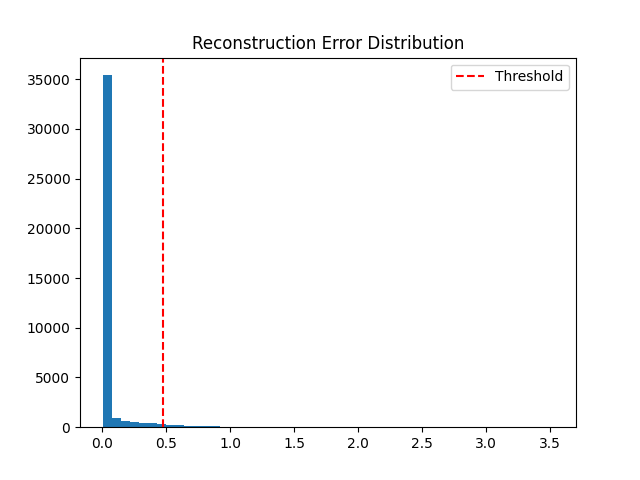
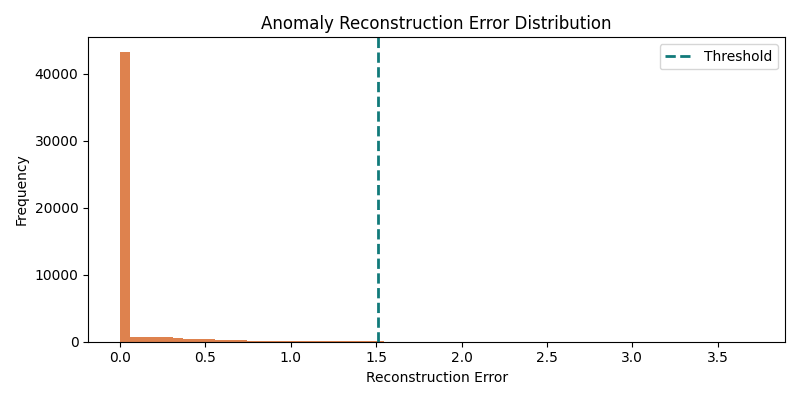
anomaly updated

diff --git a/src/models/anomaly_autoenc.py b/src/models/anomaly_autoenc.py
@@ -1,36 +1,35 @@
 from tensorflow.keras import Model
 from tensorflow.keras.layers import (
-    LSTM,
     Dense,
     Dropout,
     Input,
-    RepeatVector,
-    TimeDistributed,
+    Reshape,
 )
 
 
-def build_lstm_autoencoder(window_size, latent_dim=64, dropout_rate=0.2):
+def build_autoencoder(window_size, latent_dim=64, dropout_rate=0.2):
     """
-    Sequence-to-sequence LSTM autoencoder for mains anomaly detection.
+    Fully-connected (Dense) autoencoder for mains anomaly detection.
+    Much faster to train than the LSTM variant while retaining good
+    reconstruction-error-based anomaly separation.
     """
 
     inputs = Input(shape=(window_size, 1), name="mains_window")
 
-    x = LSTM(128, return_sequences=True, name="encoder_lstm_1")(inputs)
+    # ── Encoder ──
+    x = Reshape((window_size,), name="flatten_input")(inputs)
+    x = Dense(128, activation="relu", name="encoder_dense_1")(x)
     x = Dropout(dropout_rate, name="encoder_dropout_1")(x)
-    x = LSTM(latent_dim, return_sequences=False, name="encoder_lstm_2")(x)
+    x = Dense(latent_dim, activation="relu", name="encoder_dense_2")(x)
     x = Dropout(dropout_rate, name="encoder_dropout_2")(x)
 
-    x = RepeatVector(window_size, name="repeat_latent")(x)
-    x = LSTM(latent_dim, return_sequences=True, name="decoder_lstm_1")(x)
+    # ── Decoder ──
+    x = Dense(128, activation="relu", name="decoder_dense_1")(x)
     x = Dropout(dropout_rate, name="decoder_dropout_1")(x)
-    x = LSTM(128, return_sequences=True, name="decoder_lstm_2")(x)
+    x = Dense(window_size, activation="linear", name="decoder_dense_2")(x)
 
-    outputs = TimeDistributed(
-        Dense(1),
-        name="reconstructed_window",
-    )(x)
+    outputs = Reshape((window_size, 1), name="reconstructed_window")(x)
 
-    model = Model(inputs=inputs, outputs=outputs, name="anomaly_lstm_autoencoder")
+    model = Model(inputs=inputs, outputs=outputs, name="anomaly_autoencoder")
     model.compile(optimizer="adam", loss="mse")
     return model

diff --git a/src/training/train_anomaly.py b/src/training/train_anomaly.py
@@ -11,7 +11,7 @@ from tensorflow.keras.callbacks import EarlyStopping, ReduceLROnPlateau
 
 sys.path.append(os.path.abspath("src"))
 
-from models.anomaly_autoenc import build_lstm_autoencoder
+from models.anomaly_autoenc import build_autoencoder
 
 
 WINDOW_SIZE = 60
@@ -59,7 +59,7 @@ def save_training_plots(history, reconstruction_errors, threshold):
     plt.plot(history.history["val_loss"], label="Validation Loss", linewidth=2)
     plt.xlabel("Epoch")
     plt.ylabel("Reconstruction MSE")
-    plt.title("Anomaly LSTM Training Curve")
+    plt.title("Anomaly Autoencoder Training Curve")
     plt.legend()
     plt.tight_layout()
     plt.savefig("reports/anomaly_loss_curve.png")
@@ -102,7 +102,7 @@ def main():
     print("Train shape:", X_train.shape)
     print("Validation shape:", X_val.shape)
 
-    model = build_lstm_autoencoder(WINDOW_SIZE, latent_dim=64, dropout_rate=0.2)
+    model = build_autoencoder(WINDOW_SIZE, latent_dim=64, dropout_rate=0.2)
     model.summary()
 
     callbacks = [
@@ -141,7 +141,7 @@ def main():
     print("Saved anomaly training plots")
 
     metrics = {
-        "model": "lstm_anomaly_autoencoder",
+        "model": "dense_anomaly_autoencoder",
         "window_size": WINDOW_SIZE,
         "threshold": threshold,
         "mean_error": float(reconstruction_errors.mean()),

diff --git a/frontend/app.py b/frontend/app.py
@@ -597,8 +597,7 @@ st.markdown(
         <div class="iw-hero-title">IntelliWatt <span>Dashboard</span></div>
         <div class="iw-hero-sub">
             A professional energy intelligence cockpit for appliance disaggregation,
-            load forecasting, anomaly detection, and NILM research — powered by your
-            existing AI pipeline with zero backend changes.
+            load forecasting, anomaly detection, and NILM research.
         </div>
     </div>
     """,

diff --git a/README.md b/README.md
@@ -6,7 +6,7 @@ A complete deep learning–based smart energy monitoring platform built on the *
 - 🔌 NILM (Seq-to-Seq CNN)
 - 🔌 NILM (BiGRU – Bidirectional Gated Recurrent Unit)
 - 📈 LSTM Load Forecasting
-- 🚨 Hybrid Anomaly Detection (LSTM Autoencoder + Safety Rule)
+- 🚨 Hybrid Anomaly Detection (Dense Autoencoder + Safety Rule)
 - 💰 Monthly Bill Estimation
 - ⚙ FastAPI Backend
 - 📊 Streamlit Dashboard
@@ -23,7 +23,7 @@ flowchart TD
 
     C1[NILM Model Seq-to-Point CNN]
     C2[Forecasting Model LSTM]
-    C3[Anomaly Model LSTM Autoencoder]
+    C3[Anomaly Model Dense Autoencoder]
 
     D1[Appliance Level Power]
     D2[Future Load Prediction]
@@ -66,7 +66,7 @@ UK-DALE data
         └─► Task-Specific Training Datasets
               ├─► NILM (Seq-to-Point CNN / Seq-to-Seq CNN / BiGRU)
               ├─► Load Forecasting (LSTM)
-              └─► Anomaly Detection (LSTM Autoencoder)
+              └─► Anomaly Detection (Dense Autoencoder)
                     └─► Trained Models & Scalers
                           └─► FastAPI Endpoints (/predict_nilm, /forecast, /detect_anomaly, /estimate_bill)
                                 └─► Streamlit Dashboard (interactive visualization & alerts)
@@ -162,7 +162,7 @@ Used for:
 
 ### 🚨 3. Hybrid Anomaly Detection
 
-#### LSTM Autoencoder
+#### Dense Autoencoder (Fully-Connected)
 
 - Trained on normal sequences
 - Uses reconstruction MSE
@@ -266,7 +266,7 @@ streamlit run frontend/streamlit_app.py
 - Convolutional Neural Networks (CNN) — Seq-to-Point & Seq-to-Seq
 - Bidirectional Gated Recurrent Units (BiGRU)
 - Long Short-Term Memory (LSTM)
-- LSTM Autoencoder (Unsupervised)
+- Dense Autoencoder (Unsupervised)
 - Hybrid Rule-Based + Deep Learning Detection
 
 ---
